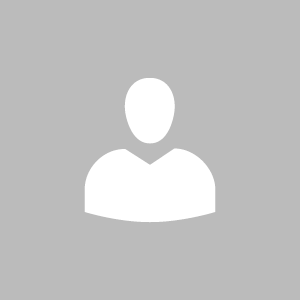
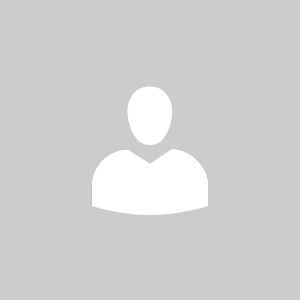
Minor design fixes

diff --git a/css/main.css b/css/main.css
@@ -65,10 +65,10 @@ only screen and (min-resolution: 240dpi) {
 
 #signUp {
     width: 100%;
-    height: 70px;
+    height: 60px;
     border-top: 1px solid #d0d0d0;
     text-align: center;
-    padding-top: 20px;
+    padding-top: 25px;
     -webkit-user-select: none;
 }
 
@@ -77,7 +77,7 @@ only screen and (min-resolution: 240dpi) {
 #sidebar {
     width: 300px;
     height: 100%;
-    background: #f0f0f0;
+    background: #e8ecef;
     border-right: 1px solid #d0d0d0;
     position: absolute;
     top: 0; left: 0;
@@ -103,7 +103,7 @@ only screen and (min-resolution: 240dpi) {
     content: "";
     width: 23px;
     height: 23px;
-    border: 3px solid #f0f0f0;
+    border: 3px solid #e8ecef;
     border-radius: 100%;
     position: absolute;
     bottom: -3px; right: -3px;
@@ -141,12 +141,21 @@ only screen and (min-resolution: 240dpi) {
 #sidebar .profile button {
     width: 30px;
     height: 30px;
+    background: transparent;
+    color: rgba(0,0,0,.4);
+    border: 1px solid rgba(0,0,0,.2);
     font-weight: bold;
     padding: 0 0 10px 0;
-    line-height: 24px;
+    line-height: 22px;
     letter-spacing: 1px;
     position: absolute;
     bottom: 10px; right: 10px;
+}
+
+#sidebar .profile button:hover {
+    color: rgba(0,0,0,.5);
+    border: 1px solid rgba(0,0,0,.3);
+    transition: color 200ms linear, border 200ms linear;
 }
 
 #sidebar .friends {
@@ -208,7 +217,7 @@ only screen and (min-resolution: 240dpi) {
     content: "";
     width: 16px;
     height: 16px;
-    border: 2px solid #f0f0f0;
+    border: 2px solid #e8ecef;
     border-radius: 100%;
     position: absolute;
     bottom: -2px; right: -2px;
@@ -376,7 +385,7 @@ only screen and (min-resolution: 240dpi) {
 #application .send {
     width: 100%;
     height: 80px;
-    background: #f0f0f0;
+    background: #e8ecef;
     border-top: 1px solid #d0d0d0;
     padding: 20px;
     position: absolute;

diff --git a/css/style.css b/css/style.css
@@ -11,7 +11,7 @@ html, body {
 body {
     width: 100%;
     height: 100%;
-    background: #f0f0f0;
+    background: #e8ecef;
     font-family: Helvetica Neue, Helvetica, Arial, sans-serif;
     font-size: 14px;
     color: #666;
@@ -130,51 +130,32 @@ input[type=checkbox]:checked + label:before {
 }
 
 button {
-    height: 30px;
-    background: transparent;
-	border: 1px solid #d0d0d0;
+    height: 40px;
+    background: #0077ff;
+	border: 1px solid #0055ff;
     border-radius: 3px;
     font-family: Helvetica Neue, Helvetica, Arial, sans-serif;
-    color: #999;
-    font-size: 12px;
-    font-weight: normal;
+    color: #fff;
+    font-size: 14px;
+    font-weight: bold;
     margin: 0;
-    padding: 0 10px;
+    padding: 0 20px;
     outline: 0;
     display: inline-block;
-}
-
-button:hover:enabled {
-    color: #666;
-    border: 1px solid #c0c0c0;
 }
 
 button:disabled {
     opacity: .6;
 }
 
-button.blue {
-    background: #0077ff;
-    border: none;
-    color: #fff;
-    font-weight: bold;
-}
-
-button.blue:hover:enabled {
-    border: none;
+button:hover:enabled {
     color: #fff;
     background: #0088ff;
 }
 
-button.blue:active:enabled {
+button:active:enabled {
     border: none;
     background: #0077ff;
-}
-
-button.big {
-    height: 40px;
-    font-size: 14px;
-    padding: 0 20px;
 }
 
 button.wide {

diff --git a/html/signin.html b/html/signin.html
@@ -20,7 +20,7 @@
             <form id="signInForm">
                 <input id="signInUsername" type="text" placeholder="Username" required>
                 <input id="signInPassword" type="password" placeholder="Password" required>
-                <button id="signInButton" class="big blue wide">Sign in</button>
+                <button id="signInButton" class="wide">Sign in</button>
                 <div class="checkbox">
                     <input type="checkbox" id="rememberMe">
                     <label for="rememberMe">Remember me</label>
@@ -29,7 +29,7 @@
             </form>
         </div>
         <div id="signup">
-            <button id="signUpButton">Create an account</button>
+            <small>Don't have an account? <a href="#" id="createAnAccount">Sign up</a></small>
         </div>
     </div>
     

diff --git a/html/application.html b/html/application.html
@@ -26,7 +26,7 @@
             </div>
             <div class="friends">
                 <ul>
-                    <li data-firstname="Martin" data-username="MaDetho" data-status="online">
+                    <li data-firstname="Martin" data-username="MaDetho" data-status="online" class="active">
                         <div class="avatar">
                             <img src="../img/default_small.png" class="rounded">
                         </div>

diff --git a/js/main.js b/js/main.js
@@ -118,7 +118,7 @@ $('#signInTrouble').click(function() {
 });
 
 // Open sign up page in default browser
-$('#signUpButton').click(function() {
+$('#createAnAccount').click(function() {
     gui.Shell.openExternal('http://puhn.net/signup/');
 });
 
